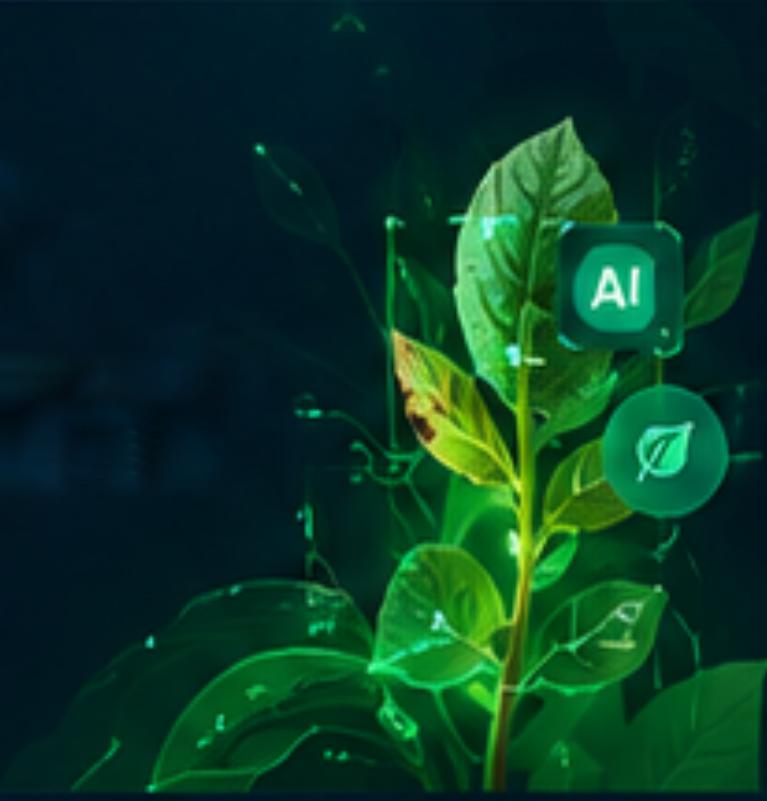
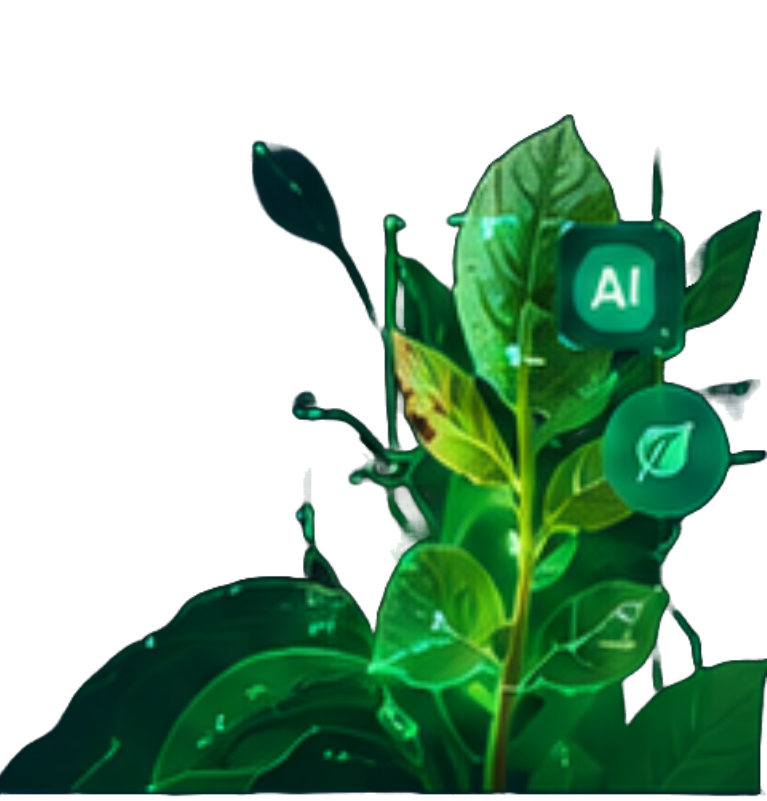
building frontend part of my potato-diease-predictor-app

diff --git a/client/src/About.jsx b/client/src/About.jsx
@@ -8,7 +8,7 @@ const About = () => {
                 <div className="flex space-x-3">
                     <div>
                        <div className="absolute">
-                            <h1 className="text-3xl text-slate-100">About TeraScan AI</h1>
+                            <h1 className="text-5xl font-bold text-slate-100">About TeraScan AI</h1>
                             <h1>Smart technology for healthier potato crops.</h1>
                             <p>TeraScan AI is an AI-powered web application designed to help <br />
                             farmers detect potato disease early. Our mission is to use <br />
